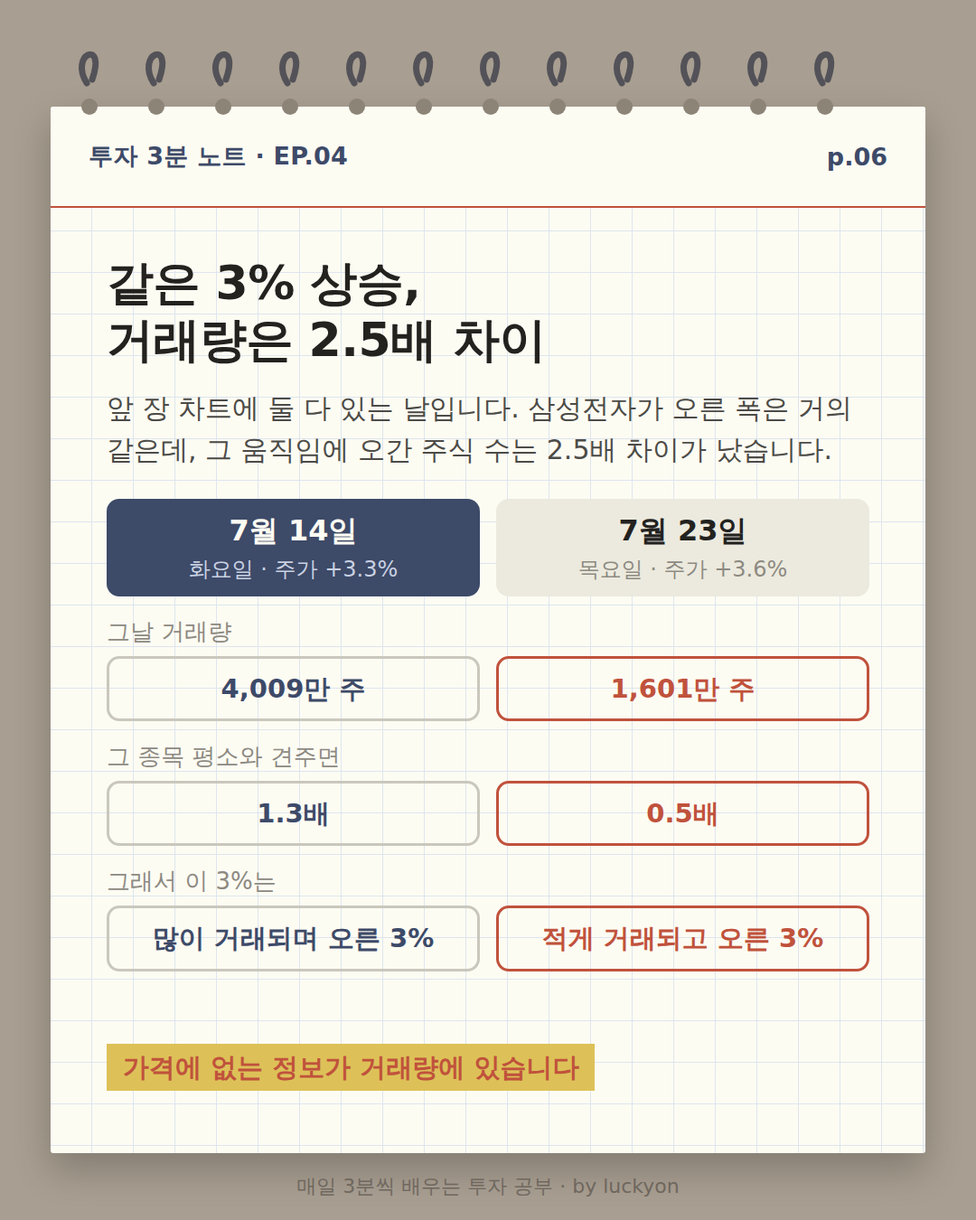
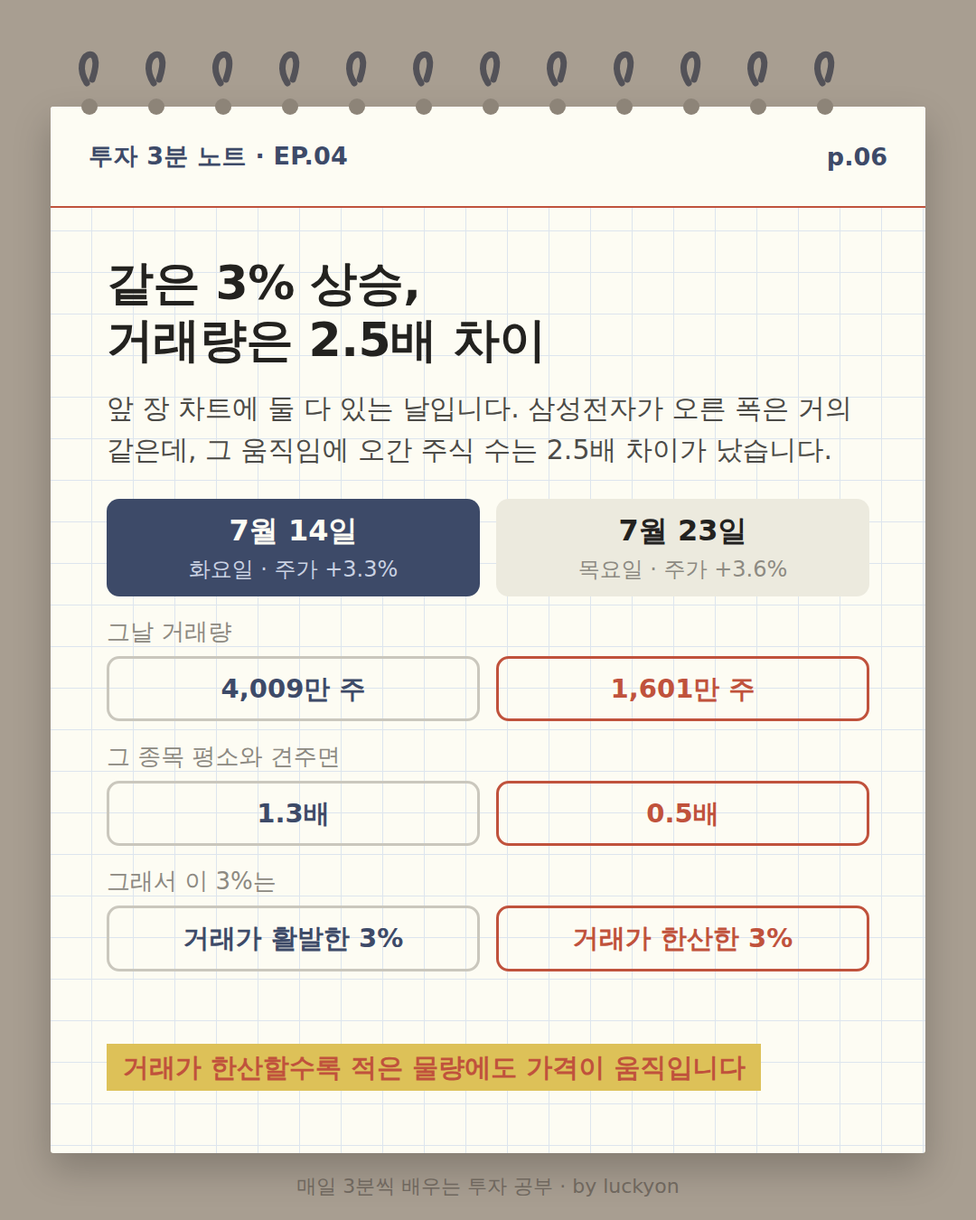
chart-notes: 2026-08-23-ep04 p.06 lands on why volume is worth looking at
The interpretation row still only restated the numbers ("많이 거래되며 오른 3%"),
so the card stopped one step short of a conclusion. It now names the two days
in market terms — 거래가 활발한 3% vs 거래가 한산한 3% — and the closing gives
the mechanism that makes them different kinds of day: when trading is thin it
takes fewer shares to move the price.

Both data sets happen to demonstrate it: the ko pair's thinner day (0.5x) rose
MORE, and the en pair's thinner day (0.7x) fell MORE.

en closing shortened to one line; "Price shows the move. Volume shows what it
took." wrapped and left a ragged highlight box.

Captions carry the same chain now. fact_check records that the closing states
a general liquidity property, not a forecast about either day.

Claude-Session: https://claude.ai/code/session_019rTp6MgSg1P327MVucBaSG

Changed region(s): [[0.1528, 0.84, 0.7944, 0.9022], [0.55, 0.7467, 0.8556, 0.7778], [0.1528, 0.7467, 0.4583, 0.7778]]

diff --git a/cards/chart-notes/2026-08-23-ep04/preview.html b/cards/chart-notes/2026-08-23-ep04/preview.html
@@ -56,7 +56,7 @@
 제출하면 다음 확인 루틴이 읽고 처리한 뒤, 결과를 카카오톡으로 알려드립니다.</p>
 
 <div class="fact"><b>시세 검증 기록</b>
-<div>KO — ① p.05 차트 — 삼성전자(005930.KS) 2026-07-13~07-31 14거래일 OHLC·거래량 전량을 PlayMCP UsStockInfo 일봉에서 그대로 옮겼다. 급증일 7/29(수) 시가 226,500 / 고가 234,000 / 저가 189,200 / 종가 208,500, 거래량 65,555,523주. ② 20거래일 평균 — 7/29 직전 20거래일(6/30~7/28) 거래량 합 564,693,346주 ÷ 20 = 28,234,667주. 65,555,523 ÷ 28,234,667 = 2.32배(p.04·p.05 의 '2.3배'). ③ p.05 가 말하는 «그날 무슨 일» — 네이버 뉴스로 확인했다. 머니투데이(2026-08-04) 「코스피는 지난달 28일과 29일 연일 서킷브레이커를 울리며 16.17% 급락」, 미디어오늘(2026-07-30) 「지난 28일과 29일 이틀에 걸쳐 코스피 지수가 17% 가까이 급락… 인공지능(AI) 투자 지속성에 대한 우려」, 연합뉴스·파이낸셜뉴스 등 다수가 「7월 29일 장중 18만9200원」을 보도했고 이는 일봉 저가와 일치한다. 7/29 종가 208,500원은 7/28 종가 220,000원 대비 -5.23%(p.07 의 '5.2%'). ④ p.06 — 삼성전자의 실제 두 거래일을 견준 표다(2026-08-23 이슈 #24 수정으로 교체). 같은 일봉 원본을 다시 조회해 확인했으며 날짜는 모두 KST 기준이다. 7/14(화) 종가 263,000원은 직전 거래일 7/13 종가 254,500원 대비 +3.340%(카드 표기 +3.3%), 거래량 40,086,496주(4,009만 주). 7/23(목) 종가 270,000원은 직전 거래일 7/22 종가 260,500원 대비 +3.647%(+3.6%), 거래량 16,011,816주(1,601만 주). 40,086,496 ÷ 16,011,816 = 2.504배 — 제목의 «2.5배». «평소와 견주면» 은 각 날의 직전 20거래일로 따로 계산했다: 7/14 은 6/16~7/13 합 632,594,712 ÷ 20 = 31,629,736주이고 40,086,496 ÷ 31,629,736 = 1.27배(1.3배), 7/23 은 6/24~7/22 합 616,709,872 ÷ 20 = 30,835,494주이고 16,011,816 ÷ 30,835,494 = 0.52배(0.5배). 두 날 모두 p.05 차트(7/13~7/31) 안에 실제로 들어 있다 — `bars_ko` 인덱스 1·7 이며 종가·거래량이 이 표와 일치한다. p.05 의 x축 라벨도 이 두 날(7/14·7/23)에 맞춰 다시 찍었다 — 「앞 장 차트에 둘 다 있다」를 독자가 실제로 확인할 수 있어야 하기 때문이다. 이 카드는 두 날의 원인을 서술하지 않으므로 사건 주장을 담지 않으며, 어느 쪽도 급증일(2배 이상)이 아니다. 마지막 «그래서 이 3%는» 행은 앞 두 행의 수치를 말로 옮긴 것뿐이다(1.3배 → «많이 거래되며 오른», 0.5배 → «적게 거래되고 오른»). 앞으로 어떻게 된다는 예측이나 매매 판단은 담지 않는다. **이전 판(거래량 vs 거래대금 비교표)은 「증권앱이 둘을 나란히 보여준다」고 적었는데, 차트의 거래량 패널 옆에 거래대금이 함께 표시되지는 않는다는 지적을 받아 카드째 걷어냈다(이슈 #24).** ⑤ p.07 의 '1주 체결 = 거래량 1주' 는 네이버 지식백과 '거래량'(매경 시사용어) 의 «매도 1백주, 매입 1백주인 경우 거래량은 1백주가 된다» 를 근거로 한다. ⑥ p.02 는 실제 시세가 아닌 도식이다 — 숫자·종목·날짜를 넣지 않았다. ⑦ 날짜 오프셋: 이 도구의 KRX 일봉은 15:00Z 로 찍히며 실제 거래일은 KST 다음 날이다. 2026-07-27T15:00Z 봉(종가 220,000원)이 언론이 보도한 «7월 28일 삼성전자 13.39% 하락»(254,000 → 220,000 = -13.39%)과 맞아떨어지는 것으로, 또 제헌절 7/17(금)·광복절 대체공휴일 8/17(월) 자리가 정확히 비어 있는 것으로 교차검증했다.</div><div>EN — (1) p.05 chart — Tesla (TSLA) 2026-07-14 to 07-31, all 14 sessions of OHLC and volume copied straight from the PlayMCP UsStockInfo daily pull. Spike day Thu Jul 23: open 341.00 / high 342.11 / low 315.74 / close 319.69 on 115,606,400 shares. (2) 20-session average — the 20 sessions before Jul 23 (Jun 24 – Jul 22) total 779,189,600 shares ÷ 20 = 38,959,480. 115,606,400 ÷ 38,959,480 = 2.97x, shown as 3.0x on p.04 and p.05. (3) What p.05 says happened that day — Tesla released Q2 results after the close on Wednesday, July 22, and the stock fell the next session. Yonhap and SBS (2026-07-24): 'Tesla closed down 14.5% at $319.69… deliveries were a record 480,126 vehicles… profit came in far below the market forecast.' Newspim (2026-07-24) reports the walked-back robotaxi timeline from the same call. Close 319.69 against the Jul 22 close of 374.01 = -14.52% (p.07's '14.5%'). (4) p.06 — a table comparing two real Tesla sessions (replaced per issue #24 on 2026-08-23), re-pulled from the same daily series to check. Fri Jul 17: close 380.84 against the Jul 16 close of 391.06 = -2.613%, shown as -2.6%, on 31,394,600 shares. Fri Jul 24: close 313.03 against the Jul 23 close of 319.69 = -2.083%, shown as -2.1%, on 62,760,000 shares. 62,760,000 ÷ 31,394,600 = 2.00 — the 'twice' in the title. The 'own normal' row uses each day's own trailing 20 sessions: Jun 17 – Jul 16 totals 850,670,800 ÷ 20 = 42,533,540, so 31,394,600 ÷ 42,533,540 = 0.74x, shown as 0.7x; Jun 25 – Jul 23 totals 857,714,600 ÷ 20 = 42,885,730, so 62,760,000 ÷ 42,885,730 = 1.46x, shown as 1.5x. Both sessions sit on the p.05 chart (Jul 14–31) — `bars_en` indexes 3 and 8, with matching closes and volumes, and p.05's x-axis labels were re-pointed at those two days so the claim can actually be checked by a reader. The card asserts no cause for either day, and neither is a spike. The closing 'So the drop was' row only puts the two rows above it into words (0.7x → light trading, 1.5x → heavy trading); it forecasts nothing and recommends nothing. The previous version of this card compared volume with turnover and claimed a broker app shows the two side by side; that claim was wrong for the chart's volume panel and the whole card was pulled (issue #24). (5) p.07's 'one share traded = one share of volume' follows the Naver Encyclopedia entry for trading volume: «if 100 shares are sold and 100 bought, volume is 100 shares». (6) p.02 is a schematic, not real data — no ticker, date, or figure appears on it. (7) US bars carry 04:00Z stamps and need no date shift; Fri Jul 3 (Independence Day observed) is correctly absent from the pull.</div></div>
+<div>KO — ① p.05 차트 — 삼성전자(005930.KS) 2026-07-13~07-31 14거래일 OHLC·거래량 전량을 PlayMCP UsStockInfo 일봉에서 그대로 옮겼다. 급증일 7/29(수) 시가 226,500 / 고가 234,000 / 저가 189,200 / 종가 208,500, 거래량 65,555,523주. ② 20거래일 평균 — 7/29 직전 20거래일(6/30~7/28) 거래량 합 564,693,346주 ÷ 20 = 28,234,667주. 65,555,523 ÷ 28,234,667 = 2.32배(p.04·p.05 의 '2.3배'). ③ p.05 가 말하는 «그날 무슨 일» — 네이버 뉴스로 확인했다. 머니투데이(2026-08-04) 「코스피는 지난달 28일과 29일 연일 서킷브레이커를 울리며 16.17% 급락」, 미디어오늘(2026-07-30) 「지난 28일과 29일 이틀에 걸쳐 코스피 지수가 17% 가까이 급락… 인공지능(AI) 투자 지속성에 대한 우려」, 연합뉴스·파이낸셜뉴스 등 다수가 「7월 29일 장중 18만9200원」을 보도했고 이는 일봉 저가와 일치한다. 7/29 종가 208,500원은 7/28 종가 220,000원 대비 -5.23%(p.07 의 '5.2%'). ④ p.06 — 삼성전자의 실제 두 거래일을 견준 표다(2026-08-23 이슈 #24 수정으로 교체). 같은 일봉 원본을 다시 조회해 확인했으며 날짜는 모두 KST 기준이다. 7/14(화) 종가 263,000원은 직전 거래일 7/13 종가 254,500원 대비 +3.340%(카드 표기 +3.3%), 거래량 40,086,496주(4,009만 주). 7/23(목) 종가 270,000원은 직전 거래일 7/22 종가 260,500원 대비 +3.647%(+3.6%), 거래량 16,011,816주(1,601만 주). 40,086,496 ÷ 16,011,816 = 2.504배 — 제목의 «2.5배». «평소와 견주면» 은 각 날의 직전 20거래일로 따로 계산했다: 7/14 은 6/16~7/13 합 632,594,712 ÷ 20 = 31,629,736주이고 40,086,496 ÷ 31,629,736 = 1.27배(1.3배), 7/23 은 6/24~7/22 합 616,709,872 ÷ 20 = 30,835,494주이고 16,011,816 ÷ 30,835,494 = 0.52배(0.5배). 두 날 모두 p.05 차트(7/13~7/31) 안에 실제로 들어 있다 — `bars_ko` 인덱스 1·7 이며 종가·거래량이 이 표와 일치한다. p.05 의 x축 라벨도 이 두 날(7/14·7/23)에 맞춰 다시 찍었다 — 「앞 장 차트에 둘 다 있다」를 독자가 실제로 확인할 수 있어야 하기 때문이다. 이 카드는 두 날의 원인을 서술하지 않으므로 사건 주장을 담지 않으며, 어느 쪽도 급증일(2배 이상)이 아니다. 마지막 «그래서 이 3%는» 행은 앞 두 행의 수치를 말로 옮긴 것이다(1.3배 → «거래가 활발한», 0.5배 → «거래가 한산한»). 마무리 문장 «거래가 한산할수록 적은 물량에도 가격이 움직입니다» 는 유동성이 얕을수록 같은 물량이 주는 가격 충격이 커진다는 일반적 성질을 말한 것으로, 이 두 날에 대한 예측이나 매매 판단이 아니다. 앞으로 어떻게 된다는 말은 카드 어디에도 없다. **이전 판(거래량 vs 거래대금 비교표)은 「증권앱이 둘을 나란히 보여준다」고 적었는데, 차트의 거래량 패널 옆에 거래대금이 함께 표시되지는 않는다는 지적을 받아 카드째 걷어냈다(이슈 #24).** ⑤ p.07 의 '1주 체결 = 거래량 1주' 는 네이버 지식백과 '거래량'(매경 시사용어) 의 «매도 1백주, 매입 1백주인 경우 거래량은 1백주가 된다» 를 근거로 한다. ⑥ p.02 는 실제 시세가 아닌 도식이다 — 숫자·종목·날짜를 넣지 않았다. ⑦ 날짜 오프셋: 이 도구의 KRX 일봉은 15:00Z 로 찍히며 실제 거래일은 KST 다음 날이다. 2026-07-27T15:00Z 봉(종가 220,000원)이 언론이 보도한 «7월 28일 삼성전자 13.39% 하락»(254,000 → 220,000 = -13.39%)과 맞아떨어지는 것으로, 또 제헌절 7/17(금)·광복절 대체공휴일 8/17(월) 자리가 정확히 비어 있는 것으로 교차검증했다.</div><div>EN — (1) p.05 chart — Tesla (TSLA) 2026-07-14 to 07-31, all 14 sessions of OHLC and volume copied straight from the PlayMCP UsStockInfo daily pull. Spike day Thu Jul 23: open 341.00 / high 342.11 / low 315.74 / close 319.69 on 115,606,400 shares. (2) 20-session average — the 20 sessions before Jul 23 (Jun 24 – Jul 22) total 779,189,600 shares ÷ 20 = 38,959,480. 115,606,400 ÷ 38,959,480 = 2.97x, shown as 3.0x on p.04 and p.05. (3) What p.05 says happened that day — Tesla released Q2 results after the close on Wednesday, July 22, and the stock fell the next session. Yonhap and SBS (2026-07-24): 'Tesla closed down 14.5% at $319.69… deliveries were a record 480,126 vehicles… profit came in far below the market forecast.' Newspim (2026-07-24) reports the walked-back robotaxi timeline from the same call. Close 319.69 against the Jul 22 close of 374.01 = -14.52% (p.07's '14.5%'). (4) p.06 — a table comparing two real Tesla sessions (replaced per issue #24 on 2026-08-23), re-pulled from the same daily series to check. Fri Jul 17: close 380.84 against the Jul 16 close of 391.06 = -2.613%, shown as -2.6%, on 31,394,600 shares. Fri Jul 24: close 313.03 against the Jul 23 close of 319.69 = -2.083%, shown as -2.1%, on 62,760,000 shares. 62,760,000 ÷ 31,394,600 = 2.00 — the 'twice' in the title. The 'own normal' row uses each day's own trailing 20 sessions: Jun 17 – Jul 16 totals 850,670,800 ÷ 20 = 42,533,540, so 31,394,600 ÷ 42,533,540 = 0.74x, shown as 0.7x; Jun 25 – Jul 23 totals 857,714,600 ÷ 20 = 42,885,730, so 62,760,000 ÷ 42,885,730 = 1.46x, shown as 1.5x. Both sessions sit on the p.05 chart (Jul 14–31) — `bars_en` indexes 3 and 8, with matching closes and volumes, and p.05's x-axis labels were re-pointed at those two days so the claim can actually be checked by a reader. The card asserts no cause for either day, and neither is a spike. The 'So the drop was' row only puts the two rows above it into words (0.7x → thin trading, 1.5x → heavy trading). The closing line, that a thin day moves on fewer shares, states the general liquidity property — the shallower the book, the larger the price impact of a given quantity — and is not a forecast about either day or a trading recommendation. Nothing on the card says what happens next. The previous version of this card compared volume with turnover and claimed a broker app shows the two side by side; that claim was wrong for the chart's volume panel and the whole card was pulled (issue #24). (5) p.07's 'one share traded = one share of volume' follows the Naver Encyclopedia entry for trading volume: «if 100 shares are sold and 100 bought, volume is 100 shares». (6) p.02 is a schematic, not real data — no ticker, date, or figure appears on it. (7) US bars carry 04:00Z stamps and need no date shift; Fri Jul 3 (Independence Day observed) is correctly absent from the pull.</div></div>
 
 
     <h2>🇰🇷 한국어 — 8장</h2>
@@ -82,8 +82,8 @@
       <figcaption><b>p.05</b> 실제 차트 — 삼성전자 2026년 7월 13일부터 31일까지 14거래일. 위 칸은 캔들, 아래 칸은 거래량 막대이고 20거래일 평균을 나타내는 가로 점선이 그어져 있다. 7월 29일 막대만 짙은 파랑으로 높이 솟아 검은 테두리가 둘려 있고 평소의 2.3배라는 붉은 주석이 붙어 있다. 그날은 AI 투자 지속 여부를 둘러싼 우려로 반도체주가 이틀째 무너지며 코스피에 서킷브레이커가 걸린 날이었다는 설명이 함께 있다</figcaption>
     </figure>
     <figure>
-      <img src="ko/card6.png" alt="두 날 비교 표 — 앞 장 차트에 함께 나온 삼성전자의 7월 14일 화요일과 7월 23일 목요일을 나란히 놓았다. 주가는 각각 3.3%와 3.6% 올라 오른 폭이 거의 같지만, 그날 거래량은 4,009만 주와 1,601만 주로 2.5배 차이가 나고, 그 종목 평소와 견주면 1.3배와 0.5배다. 마지막 줄은 그래서 앞의 3%는 «많이 거래되며 오른 3%», 뒤의 3%는 «적게 거래되고 오른 3%» 라고 풀어 준다. 가격에 없는 정보가 거래량에 있다는 한 줄로 끝난다" loading="lazy">
-      <figcaption><b>p.06</b> 두 날 비교 표 — 앞 장 차트에 함께 나온 삼성전자의 7월 14일 화요일과 7월 23일 목요일을 나란히 놓았다. 주가는 각각 3.3%와 3.6% 올라 오른 폭이 거의 같지만, 그날 거래량은 4,009만 주와 1,601만 주로 2.5배 차이가 나고, 그 종목 평소와 견주면 1.3배와 0.5배다. 마지막 줄은 그래서 앞의 3%는 «많이 거래되며 오른 3%», 뒤의 3%는 «적게 거래되고 오른 3%» 라고 풀어 준다. 가격에 없는 정보가 거래량에 있다는 한 줄로 끝난다</figcaption>
+      <img src="ko/card6.png" alt="두 날 비교 표 — 앞 장 차트에 함께 나온 삼성전자의 7월 14일 화요일과 7월 23일 목요일을 나란히 놓았다. 주가는 각각 3.3%와 3.6% 올라 오른 폭이 거의 같지만, 그날 거래량은 4,009만 주와 1,601만 주로 2.5배 차이가 나고, 그 종목 평소와 견주면 1.3배와 0.5배다. 마지막 줄은 앞의 3%를 «거래가 활발한 3%», 뒤의 3%를 «거래가 한산한 3%» 로 갈라 놓는다. 거래가 한산할수록 적은 물량에도 가격이 움직인다는 한 줄로 끝난다" loading="lazy">
+      <figcaption><b>p.06</b> 두 날 비교 표 — 앞 장 차트에 함께 나온 삼성전자의 7월 14일 화요일과 7월 23일 목요일을 나란히 놓았다. 주가는 각각 3.3%와 3.6% 올라 오른 폭이 거의 같지만, 그날 거래량은 4,009만 주와 1,601만 주로 2.5배 차이가 나고, 그 종목 평소와 견주면 1.3배와 0.5배다. 마지막 줄은 앞의 3%를 «거래가 활발한 3%», 뒤의 3%를 «거래가 한산한 3%» 로 갈라 놓는다. 거래가 한산할수록 적은 물량에도 가격이 움직인다는 한 줄로 끝난다</figcaption>
     </figure>
     <figure>
       <img src="ko/card7.png" alt="흔한 오해 세 가지 — 거래량이 늘면 산 사람이 많다는 오해, 급증을 호재로 보는 것, 종목끼리 주식 수로 비교하는 것. 거래량은 방향을 알려주지 않는다는 경고가 붙어 있다" loading="lazy">
@@ -93,8 +93,8 @@
       <img src="ko/card8.png" alt="3줄 요약과 다음 편 예고 — 다음 편은 지지선과 저항선, 그리고 이 콘텐츠는 교육 목적이며 투자 권유가 아니라는 고지" loading="lazy">
       <figcaption><b>p.08</b> 3줄 요약과 다음 편 예고 — 다음 편은 지지선과 저항선, 그리고 이 콘텐츠는 교육 목적이며 투자 권유가 아니라는 고지</figcaption>
     </figure></div>
-    <h3>캡션 (985자)</h3>
-    <div class="cap">📊 투자 3분 노트 EP.04 — 거래량<br><br>가격 그래프 아래 칸에 줄지어 선 세로 막대, 거래량입니다. 그날 그 종목의 주식이 몇 주나 체결됐는지를 세워 놓은 것뿐입니다.<br><br>숫자 자체로는 많고 적음을 알 수 없습니다. 나눗셈 한 번이면 됩니다 — 오늘 거래량 ÷ 직전 20거래일 평균. 삼성전자는 2026년 7월 29일 6,556만 주가 거래됐는데, 직전 20거래일 평균은 2,823만 주였습니다. 평소의 2.3배입니다.<br><br>그날 무슨 일이 있었을까요. AI 투자가 계속될지 우려가 번지며 반도체주가 이틀째 무너졌고, 코스피에는 서킷브레이커가 걸렸습니다. 삼성전자는 장중 18만 9,200원까지 밀렸습니다. 거래량이 평소와 다르다는 건 '찾아볼 만한 날'이라는 신호입니다.<br><br>같은 차트 안의 다른 두 날을 견줘 보면 거래량이 왜 따로 붙어 있는지가 보입니다. 삼성전자는 7월 14일에 3.3%, 7월 23일에 3.6% 올랐습니다. 오른 폭은 거의 같습니다. 그런데 그날 오간 주식은 4,009만 주와 1,601만 주로 2.5배 차이였습니다. 각자의 평소와 견주면 1.3배와 0.5배입니다. 앞의 3%는 평소보다 많은 주식이 오가며 만들어졌고, 뒤의 3%는 평소의 절반만 오가고도 그만큼 움직였습니다. 가격 차트만 봐서는 이 둘이 그냥 같은 날입니다 — 가격에 없는 정보가 거래량에 있습니다. 거래량을 따로 보는 이유가 이것입니다.<br><br>그리고 가장 많이 하는 오해 하나. 거래량이 늘었다고 산 사람이 많았던 게 아닙니다. 한 주가 체결되려면 사는 쪽과 파는 쪽이 둘 다 있어야 하니까요. 거래량은 방향이 아니라 '몇 주가 오갔나'를 말해 줍니다.<br><br>📌 저장해두고 차트 볼 때 꺼내보세요<br>👇 주식 시작한 친구 태그하기<br>(교육 목적 콘텐츠이며 투자 권유가 아닙니다)<br><br>다음 편은 '지지선과 저항선' — 차트의 천장과 바닥을 읽습니다.<br><br>#주식초보 #주식공부 #거래량 #거래대금 #주식차트보는법 #주식용어 #삼성전자 #코스피 #재테크 #투자공부 #luckyon브리핑</div>
+    <h3>캡션 (1054자)</h3>
+    <div class="cap">📊 투자 3분 노트 EP.04 — 거래량<br><br>가격 그래프 아래 칸에 줄지어 선 세로 막대, 거래량입니다. 그날 그 종목의 주식이 몇 주나 체결됐는지를 세워 놓은 것뿐입니다.<br><br>숫자 자체로는 많고 적음을 알 수 없습니다. 나눗셈 한 번이면 됩니다 — 오늘 거래량 ÷ 직전 20거래일 평균. 삼성전자는 2026년 7월 29일 6,556만 주가 거래됐는데, 직전 20거래일 평균은 2,823만 주였습니다. 평소의 2.3배입니다.<br><br>그날 무슨 일이 있었을까요. AI 투자가 계속될지 우려가 번지며 반도체주가 이틀째 무너졌고, 코스피에는 서킷브레이커가 걸렸습니다. 삼성전자는 장중 18만 9,200원까지 밀렸습니다. 거래량이 평소와 다르다는 건 '찾아볼 만한 날'이라는 신호입니다.<br><br>같은 차트 안의 다른 두 날을 견줘 보면 거래량이 왜 따로 붙어 있는지가 보입니다. 삼성전자는 7월 14일에 3.3%, 7월 23일에 3.6% 올랐습니다. 오른 폭은 거의 같습니다. 그런데 그날 오간 주식은 4,009만 주와 1,601만 주로 2.5배 차이였습니다. 각자의 평소와 견주면 1.3배와 0.5배입니다. 앞의 3%는 평소보다 활발한 거래 속에서 만들어졌고, 뒤의 3%는 평소의 절반밖에 안 되는 거래로 만들어졌습니다. 거래가 한산하면 적은 물량에도 가격이 크게 움직입니다. 팔려는 물량이 얇으니 조금만 사도 호가가 위로 밀리는 것입니다. 그래서 같은 3%라도 성격이 다른데, 가격 숫자만 봐서는 그 차이가 전혀 보이지 않습니다. 거래량을 따로 보는 이유가 이것입니다.<br><br>그리고 가장 많이 하는 오해 하나. 거래량이 늘었다고 산 사람이 많았던 게 아닙니다. 한 주가 체결되려면 사는 쪽과 파는 쪽이 둘 다 있어야 하니까요. 거래량은 방향이 아니라 '몇 주가 오갔나'를 말해 줍니다.<br><br>📌 저장해두고 차트 볼 때 꺼내보세요<br>👇 주식 시작한 친구 태그하기<br>(교육 목적 콘텐츠이며 투자 권유가 아닙니다)<br><br>다음 편은 '지지선과 저항선' — 차트의 천장과 바닥을 읽습니다.<br><br>#주식초보 #주식공부 #거래량 #거래대금 #주식차트보는법 #주식용어 #삼성전자 #코스피 #재테크 #투자공부 #luckyon브리핑</div>
 
     <h2>🇺🇸 English — 8장</h2>
     <div class="cards">
@@ -119,8 +119,8 @@
       <figcaption><b>p.05</b> Real chart — Tesla's 14 sessions from July 14 to 31, 2026, with candlesticks in the upper panel and volume bars below, crossed by a dashed line marking the 20-session average. The July 23 bar spikes in red, labelled 3.0x normal, and the card explains that Tesla's second-quarter results had landed the night before: a second-quarter delivery record but profit well short of forecasts</figcaption>
     </figure>
     <figure>
-      <img src="en/card6.png" alt="Two-day comparison table — Tesla's Friday July 17 and Friday July 24, both of them days that appear on the chart from the previous card. The stock fell 2.6% and 2.1%, close to the same move, yet volume was 31.4M shares against 62.8M shares, or 0.7x and 1.5x each day's own 20-session normal. A final row reads the numbers back: the first fall was made on light trading, the second on heavy trading. The card closes on the line that volume carries what price does not" loading="lazy">
-      <figcaption><b>p.06</b> Two-day comparison table — Tesla's Friday July 17 and Friday July 24, both of them days that appear on the chart from the previous card. The stock fell 2.6% and 2.1%, close to the same move, yet volume was 31.4M shares against 62.8M shares, or 0.7x and 1.5x each day's own 20-session normal. A final row reads the numbers back: the first fall was made on light trading, the second on heavy trading. The card closes on the line that volume carries what price does not</figcaption>
+      <img src="en/card6.png" alt="Two-day comparison table — Tesla's Friday July 17 and Friday July 24, both of them days that appear on the chart from the previous card. The stock fell 2.6% and 2.1%, close to the same move, yet volume was 31.4M shares against 62.8M shares, or 0.7x and 1.5x each day's own 20-session normal. A final row sorts them: the first fall was made on thin trading, the second on heavy trading. The card closes on the line that a thin day moves on fewer shares" loading="lazy">
+      <figcaption><b>p.06</b> Two-day comparison table — Tesla's Friday July 17 and Friday July 24, both of them days that appear on the chart from the previous card. The stock fell 2.6% and 2.1%, close to the same move, yet volume was 31.4M shares against 62.8M shares, or 0.7x and 1.5x each day's own 20-session normal. A final row sorts them: the first fall was made on thin trading, the second on heavy trading. The card closes on the line that a thin day moves on fewer shares</figcaption>
     </figure>
     <figure>
       <img src="en/card7.png" alt="Three common mistakes — believing more volume means more buyers, treating a spike as good news, and comparing different stocks by share count, with a warning that volume never gives direction" loading="lazy">
@@ -130,8 +130,8 @@
       <img src="en/card8.png" alt="Three-line recap, a teaser for the next episode on support and resistance, and a note that this is educational content and not investment advice" loading="lazy">
       <figcaption><b>p.08</b> Three-line recap, a teaser for the next episode on support and resistance, and a note that this is educational content and not investment advice</figcaption>
     </figure></div>
-    <h3>캡션 (1849자)</h3>
-    <div class="cap">Those vertical bars in the panel under the price chart are volume — simply how many shares changed hands that day.<br><br>The raw number tells you nothing on its own. One division fixes that: today's volume ÷ the 20-session average. Tesla traded 115.6M shares on Thursday, July 23, 2026, against a 39.0M average over the previous 20 sessions. That is 3.0 times its own normal.<br><br>So what happened that day? Tesla's second-quarter results had landed the night before — a second-quarter record of 480,126 deliveries, but profit far short of forecasts, and a robotaxi timeline the company walked back on the call. The stock closed down 14.5%. Volume that sits far from normal is a signal that the day is worth looking into.<br><br>Put two days from that same chart side by side and you can see why volume gets a panel of its own. Tesla fell 2.6% on Friday, July 17 and 2.1% on Friday, July 24 — close to the same move. The first one took 31.4M shares; the second took 62.8M, twice as many. Against each day's own 20-session normal, that is 0.7x and 1.5x. So the first fall was made on light trading and the second on heavy trading. On the price chart alone those two days look the same — volume carries what price does not. That is the whole reason it gets a panel.<br><br>And the mistake almost everyone makes: rising volume does not mean buyers piled in. Every share traded needs a buyer and a seller, so the two sides always match. Volume never gives you direction — it tells you how many shares changed hands.<br><br>📌 Save it and pull it up when you chart<br>👇 Tag a friend who just started investing<br>(Educational content only — not investment advice)<br><br>Next up: support and resistance — reading the ceiling and the floor on a chart.<br><br>#investingbasics #stockmarket #tradingvolume #stockcharts #technicalanalysis #learntoinvest #tesla #stockmarketbasics #investing101 #luckyon</div>
+    <h3>캡션 (1994자)</h3>
+    <div class="cap">Those vertical bars in the panel under the price chart are volume — simply how many shares changed hands that day.<br><br>The raw number tells you nothing on its own. One division fixes that: today's volume ÷ the 20-session average. Tesla traded 115.6M shares on Thursday, July 23, 2026, against a 39.0M average over the previous 20 sessions. That is 3.0 times its own normal.<br><br>So what happened that day? Tesla's second-quarter results had landed the night before — a second-quarter record of 480,126 deliveries, but profit far short of forecasts, and a robotaxi timeline the company walked back on the call. The stock closed down 14.5%. Volume that sits far from normal is a signal that the day is worth looking into.<br><br>Put two days from that same chart side by side and you can see why volume gets a panel of its own. Tesla fell 2.6% on Friday, July 17 and 2.1% on Friday, July 24 — close to the same move. The first one took 31.4M shares; the second took 62.8M, twice as many. Against each day's own 20-session normal, that is 0.7x and 1.5x. So the first fall came on thin trading and the second on heavy trading. When trading is thin it takes fewer shares to move the price — there is less sitting on the other side of the book. That is why two drops of the same size are not the same kind of day, and the price line alone never shows you which is which. It is why volume gets a panel of its own.<br><br>And the mistake almost everyone makes: rising volume does not mean buyers piled in. Every share traded needs a buyer and a seller, so the two sides always match. Volume never gives you direction — it tells you how many shares changed hands.<br><br>📌 Save it and pull it up when you chart<br>👇 Tag a friend who just started investing<br>(Educational content only — not investment advice)<br><br>Next up: support and resistance — reading the ceiling and the floor on a chart.<br><br>#investingbasics #stockmarket #tradingvolume #stockcharts #technicalanalysis #learntoinvest #tesla #stockmarketbasics #investing101 #luckyon</div>
 
 
 <div class="act">
